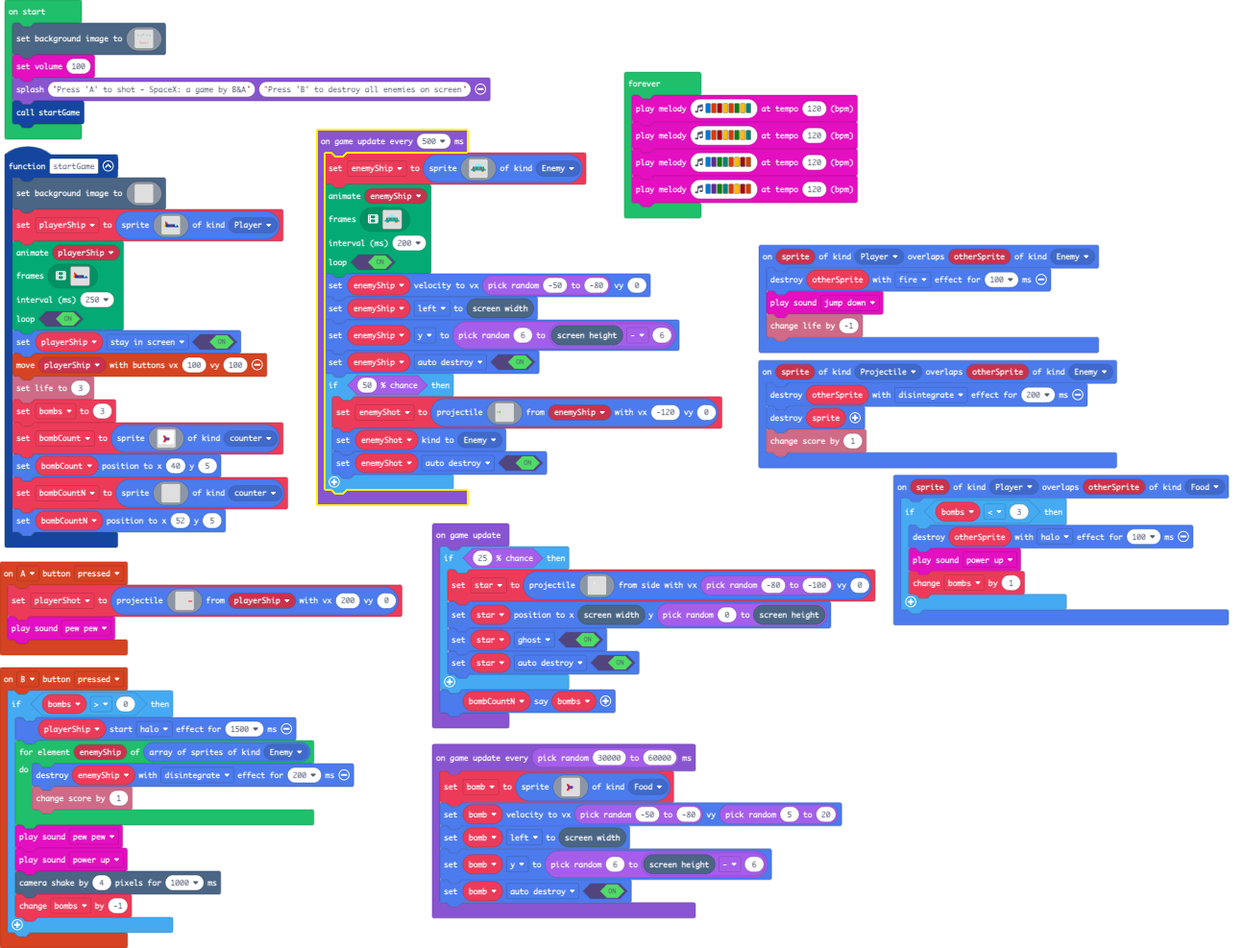
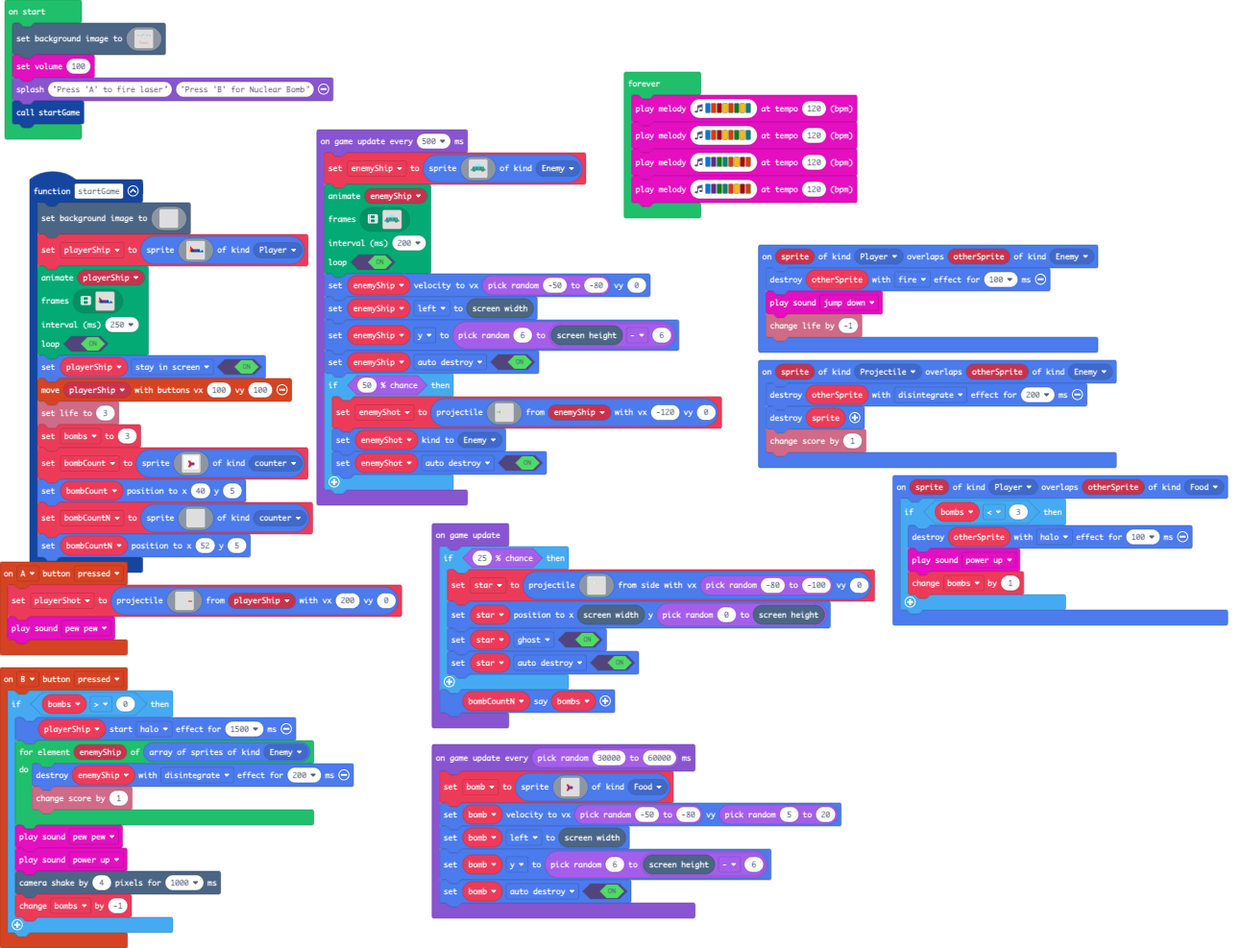
Intro changes

diff --git a/images.g.ts b/images.g.ts
@@ -144,129 +144,6 @@ namespace myImages {
 ................................................................................................................................................................
 ................................................................................................................................................................
 `;
-            case "image3":
-            case "intro":return img`
-................................................................................................................................................................
-................................................................................................................................................................
-................................................................................................................................................................
-................................................................................................................................................................
-................................................................................................................................................................
-................................................................................................................................................................
-................................................................................................................................................................
-................................................................................................................................................................
-................................................................................................................................................................
-.........................................................................9999...................................................................................
-........................................................................999999..................................................................................
-.......................................................................99999999.................................................................................
-.....................................................................666666666666...............................................................................
-.....................................................................267626762676...............................................................................
-....................................................................66666666666666..............................................................................
-...................................................................6666666666666666...........................9999..............................................
-.....................................................................626......626............................999999.............................................
-......................................................................5........5............................99999999............................................
-...........2..............................................................................................666666666666......................9999................
-...........22.............................................................................................267626762676.....................999999...............
-...........222.....................................9999..................................................66666666666666...................99999999..............
-..........548888888889............................999999................................................6666666666666666................666666666666............
-.........542888222288998.........................99999999.................................................626......626..................267626762676............
-..........548888888888888...2222...2222........666666666666................................................5........5..................66666666666666...........
-...............................................267626762676...........................................................................6666666666666666..........
-..............................................66666666666666............................................................................626......626............
-.............................................6666666666666666............................................................................5........5.............
-...............................................626......626.....................................................................................................
-................................................5........5......................................................................................................
-................................................................................................................................................................
-................................................................................................................................................................
-................................................................................................................................................................
-................................................................................................................................................................
-................................................................................................................................................................
-................................................................................................................................................................
-................................................................................................................................................................
-................................................................................................................................................................
-................................................................................................................................................................
-................................................................................................................................................................
-................................................................................................................................................................
-................................................................................................................................................................
-................................................................................................................................................................
-................................................................................................................................................................
-................................................................................................................................................................
-................................................................................................................................................................
-................................................................................................................................................................
-................................................................................................................................................................
-................................................................................................................................................................
-................................................................................................................................................................
-................................................................................................................................................................
-................................................................................................................................................................
-................................................................................................................................................................
-................................................................................................................................................................
-................................................................................................................................................................
-................................................................................................................................................................
-................................................................................................................................................................
-................................................................................................................................................................
-................................................................................................................................................................
-................................................................................................................................................................
-................................................................................................................................................................
-................................................................................................................................................................
-................................................................................................................................................................
-................................................................................................................................................................
-................................................................................................................................................................
-................................................................................................................................................................
-................................................................................................................................................................
-................................................................................................................................................................
-................................................................................................................................................................
-................................................................................................................................................................
-................................................................................................................................................................
-................................................................................................................................................................
-................................................................................................................................................................
-................................................................................................................................................................
-................................................................................................................................................................
-................................................................................................................................................................
-................................................................................................................................................................
-................................................................................................................................................................
-................................................................................................................................................................
-................................................................................................................................................................
-................................................................................................................................................................
-................................................................................................................................................................
-................................................................................................................................................................
-....................................22222.......................................................................................................................
-...................................2.....2......................................................................................................................
-..................................2.......222...................................................................................................................
-.................................22..........22.................................................................................................................
-.................................2..............................................................................................................................
-.................................2..............................................................................................................................
-.................................2.............................................................................2................................................
-.................................2.............................................................................2.........2......................................
-.................................2..............................................................................2........2......................................
-.................................2..............................................................................22......2.......................................
-..................................2..............................................................................2.....22.......................................
-...................................22............................................................................22....2........................................
-.....................................2222222222...................................................................2...22........................................
-...............................................2..................................................................22..2.........................................
-...............................................2......22222222.....................................................2.22.........................................
-...............................................2......2.......22.......222222......................................2.2..........................................
-...............................................2......2.........2.....22....222.....2222......2222..................2...........................................
-...............................................2......2.........2.....2......22....22........22..22................222..........................................
-...............................................2......2.........2....2........2....2........22....2................2.2..........................................
-...............................................2......2.........2....2........2...2.........2...222................2..2.........................................
-..............................................22......2.........2....2.......22...2.........2.222.................2...22........................................
-.............................................22......2.........22....2.......22...2........2222...........2.......2....2........................................
-.................................22.........2........2........22.....2......2222..22.......2.......2.............2......2.......................................
-..................................22.....222.........22......22......22....22..2...2.....2.2.......2............2.......22......................................
-....................................222222...........222222222.........22222...2...2222222.2......2............22........2......................................
-.....................................................2.........................2...........22....22............2..........2.....................................
-.....................................................2.........................2............222222............22..........2.....................................
-.....................................................2........................................................2.................................................
-.....................................................2........................................................2.................................................
-.....................................................2..........................................................................................................
-.....................................................2..........................................................................................................
-.....................................................2..........................................................................................................
-....................................................2...........................................................................................................
-....................................................2...........................................................................................................
-....................................................2...........................................................................................................
-....................................................2...........................................................................................................
-....................................................2...........................................................................................................
-................................................................................................................................................................
-`;
             case "image7":
             case "ship":return img`
 . . . . . . . . . . . . . . . . 
@@ -399,6 +276,147 @@ namespace myImages {
 . . . . . . . . . . . . . . . . 
 . . . . . . . . . . . . . . . . 
 . . . . . . . . . . . . . . . . 
+`;
+            case "image11":
+            case "frame":return img`
+1 1 1 1 1 1 1 1 1 1 1 1 1 1 1 
+1 1 1 1 1 1 1 1 1 1 1 1 1 1 1 
+1 1 1 1 1 1 1 1 1 1 1 1 1 1 1 
+1 1 1 1 1 1 1 1 1 1 1 1 1 1 1 
+1 1 1 1 1 1 1 1 1 1 1 1 1 1 1 
+1 1 1 1 1 1 1 1 1 1 1 1 1 1 1 
+1 1 1 1 1 1 1 1 1 1 1 1 1 1 1 
+1 1 1 1 1 1 1 1 1 1 1 1 1 1 1 
+1 1 1 1 1 1 1 1 1 1 1 1 1 1 1 
+1 1 1 1 1 1 1 1 1 1 1 1 1 1 1 
+1 1 1 1 1 1 1 1 1 1 1 1 1 1 1 
+1 1 1 1 1 1 1 1 1 1 1 1 1 1 1 
+1 1 1 1 1 1 1 1 1 1 1 1 1 1 1 
+1 1 1 1 1 1 1 1 1 1 1 1 1 1 1 
+1 1 1 1 1 1 1 1 1 1 1 1 1 1 1 
+`;
+            case "image3":
+            case "intro":return img`
+................................................................................................................................................................
+................................................................................................................................................................
+................................................................................................................................................................
+................................................................................................................................................................
+................................................................................................................................................................
+................................................................................................................................................................
+................................................................................................................................................................
+................................................................................................................................................................
+................................................................................................................................................................
+.........................................................................9999...................................................................................
+........................................................................999999..................................................................................
+.......................................................................99999999.................................................................................
+.....................................................................666666666666...............................................................................
+.....................................................................267626762676...............................................................................
+....................................................................66666666666666..............................................................................
+...................................................................6666666666666666...........................9999..............................................
+.....................................................................626......626............................999999.............................................
+......................................................................5........5............................99999999............................................
+...........2..............................................................................................666666666666......................9999................
+...........22.............................................................................................267626762676.....................999999...............
+...........222.....................................9999..................................................66666666666666...................99999999..............
+..........548888888889............................999999................................................6666666666666666................666666666666............
+.........542888222288998.........................99999999.................................................626......626..................267626762676............
+..........548888888888888...2222...2222........666666666666................................................5........5..................66666666666666...........
+...............................................267626762676...........................................................................6666666666666666..........
+..............................................66666666666666............................................................................626......626............
+.............................................6666666666666666............................................................................5........5.............
+...............................................626......626.....................................................................................................
+................................................5........5......................................................................................................
+................................................................................................................................................................
+................................................................................................................................................................
+................................................................................................................................................................
+................................................................................................................................................................
+................................................................................................................................................................
+................................................................................................................................................................
+................................................................................................................................................................
+................................................................................................................................................................
+................................................................................................................................................................
+................................................................................................................................................................
+................................................................................................................................................................
+................................................................................................................................................................
+................................................................................................................................................................
+................................................................................................................................................................
+................................................................................................................................................................
+................................................................................................................................................................
+................................................................................................................................................................
+................................................................................................................................................................
+................................................................................................................................................................
+................................................................................................................................................................
+................................................................................................................................................................
+................................................................................................................................................................
+................................................................................................................................................................
+................................................................................................................................................................
+................................................................................................................................................................
+................................................................................................................................................................
+................................................................................................................................................................
+................................................................................................................................................................
+................................................................................................................................................................
+................................................................................................................................................................
+................................................................................................................................................................
+................................................................................................................................................................
+................................................................................................................................................................
+................................................................................................................................................................
+................................................................................................................................................................
+................................................................................................................................................................
+................................................................................................................................................................
+................................................................................................................................................................
+................................................................................................................................................................
+................................................................................................................................................................
+................................................................................................................................................................
+................................................................................................................................................................
+................................................................................................................................................................
+................................................................................................................................................................
+................................................................................................................................................................
+................................................................................................................................................................
+................................................................................................................................................................
+................................................................................................................................................................
+................................................................................................................................................................
+................................................................................................................................................................
+................................................................................................................................................................
+................................................................................................................................................................
+................................................................................................................................................................
+................................................................................................................................................................
+....................................22222.......................................................................................................................
+...................................2.....2......................................................................................................................
+..................................2.......222...................................................................................................................
+.................................22..........22.................................................................................................................
+.................................2..............................................................................................................................
+.................................2..............................................................................................................................
+.................................2.............................................................................2................................................
+.................................2.............................................................................2.........2......................................
+.................................2..............................................................................2........2......................................
+.................................2..............................................................................22......2.......................................
+..................................2..............................................................................2.....22.......................................
+...................................22............................................................................22....2........................................
+.....................................2222222222...................................................................2...22........................................
+...............................................2..................................................................22..2.........................................
+...............................................2......22222222.....................................................2.22.........................................
+...............................................2......2.......22.......222222......................................2.2..........................................
+...............................................2......2.........2.....22....222.....2222......2222..................2...........................................
+...............................................2......2.........2.....2......22....22........22..22................222..........................................
+...............................................2......2.........2....2........2....2........22....2................2.2..........................................
+...............................................2......2.........2....2........2...2.........2...222................2..2.........................................
+..............................................22......2.........2....2.......22...2.........2.222.................2...22........................................
+.............................................22......2.........22....2.......22...2........2222........22222......2....2........................................
+.................................22.........2........2........22.....2......2222..22.......2.......2.............2......2.......................................
+..................................22.....222.........22......22......22....22..2...2.....2.2.......2............2.......22......................................
+....................................222222...........222222222.........22222...2...2222222.2......2............22........2......................................
+.....................................................2.........................2...........22....22............2..........2.....................................
+.....................................................2.........................2............222222............22..........2.....................................
+.....................................................2........................................................2.................................................
+.....................................................2........................................................2.................................................
+.....................................................2..........................................................................................................
+.....................................................2..........................................................................................................
+.....................................................2..........................................................................................................
+....................................................2...........................................................................................................
+....................................................2...........................................................................................................
+....................................................2...........................................................................................................
+................................................................................................................................................................
+................................................................................................................................................................
 `;
         }
         return null;

diff --git a/main.ts b/main.ts
@@ -191,7 +191,7 @@ let playerShip: Sprite = null
 let bombs = 0
 scene.setBackgroundImage(assets.image`intro`)
 music.setVolume(100)
-game.splash("Press 'A' to shot - SpaceX: a game by B&A", "Press 'B' to destroy all enemies on screen")
+game.splash("Press 'A' to fire laser", "Press 'B' for Nuclear Bomb")
 startGame()
 game.onUpdate(function () {
     if (Math.percentChance(25)) {
